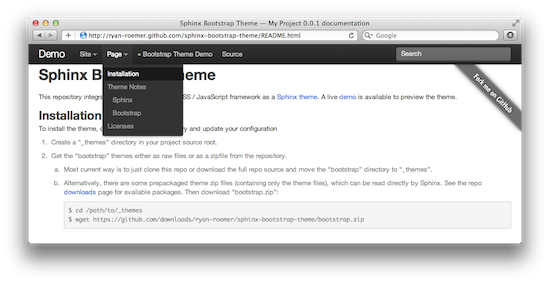
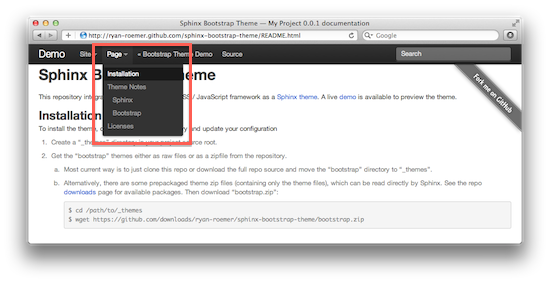
Bootstrap Post: Get brief tour, final thoughts sections done.

Changed region(s): [[0.1545, 0.1413, 0.3709, 0.5371]]

diff --git a/_posts/2011-12-09-sphinx-twitter-bootstrap-theme.md b/_posts/2011-12-09-sphinx-twitter-bootstrap-theme.md
@@ -83,37 +83,69 @@ customizing and hacking on the theme.
 
 ## Brief Tour
 
-TODO: HERE
+The Bootstrap Sphinx theme basically rolls up the site-wide / page-level
+table of contents, page navigation and search form into the main navigation
+top bar.
 
-* Site nav.
-* Page nav.
-* Search
+### Site Navigation
+
+The first dropdown tab is the "Site" button (expanded and highlighted below).
+Internally this wraps up the ``globaltoc`` template using the ``toctree``
+directive.
 
 [![Site Navigation][img_sbt_nav_site_th]][img_sbt_nav_site]
 [img_sbt_nav_site_th]: {{ img_dir }}/sbt_nav_site_thumb.png
 [img_sbt_nav_site]: {{ img_dir }}/sbt_nav_site.png
 
+For both the site and page navigation dropdowns, the bootstrap theme uses
+JavaScript hackery to unpack the internal list structure and convert it to
+an ordered flat list with hierarchy displayed using extra left padding
+corresponding to levels. The natural levels of table of content displayed
+normally by Sphinx should be preserved in the dropdown menus.
+
+### Page Navigation
+
+The second dropdown tab is the "Page" navigation for table of contents link
+within a single page. This wraps the ``localtoc`` template using the ``toc``
+directive.
+
 [![Page Navigation][img_sbt_nav_page_th]][img_sbt_nav_page]
 [img_sbt_nav_page_th]: {{ img_dir }}/sbt_nav_page_thumb.png
 [img_sbt_nav_page]: {{ img_dir }}/sbt_nav_page.png
+
+### Search
+
+The right "Search" box in the navigation top bar connects to the built-in,
+client-side search that Sphinx provides. Here we search for the term
+"bootstrap":
 
 [![Search Navigation][img_sbt_nav_search_th]][img_sbt_nav_search]
 [img_sbt_nav_search_th]: {{ img_dir }}/sbt_nav_search_thumb.png
 [img_sbt_nav_search]: {{ img_dir }}/sbt_nav_search.png
 
+... which gives us the following page matches.
+
 [![Search Results][img_sbt_search_th]][img_sbt_search]
 [img_sbt_search_th]: {{ img_dir }}/sbt_search_thumb.png
 [img_sbt_search]: {{ img_dir }}/sbt_search.png
 
+### Final Thoughts
 
+The Bootstrap Theme provides an easy means for Twitter Bootstrap integration
+for my current Sphinx sites. But, as I've just put together the theme this
+week, it is probably still rough around the edges. Any
+[issue reports][sbt_issues], [pull requests][sbt_pull], and feedback are most
+welcome.
 
 [bootstrap]: http://twitter.github.com/bootstrap/
-[sphinx]: http://sphinx.pocoo.org/
 [python]: http://python.org/
-[sbt_gh]: https://github.com/ryan-roemer/sphinx-bootstrap-theme
 [sbt_demo]: http://ryan-roemer.github.com/sphinx-bootstrap-theme
 [sbt_downloads]: https://github.com/ryan-roemer/sphinx-bootstrap-theme/downloads
+[sbt_gh]: https://github.com/ryan-roemer/sphinx-bootstrap-theme
+[sbt_issues]: https://github.com/ryan-roemer/sphinx-bootstrap-theme/issues
+[sbt_pull]: https://github.com/ryan-roemer/sphinx-bootstrap-theme/pulls
 [sbt_readme]: https://github.com/ryan-roemer/sphinx-bootstrap-theme/blob/master/README.rst
 [sbt_zip]: https://github.com/downloads/ryan-roemer/sphinx-bootstrap-theme/bootstrap.zip
+[sphinx]: http://sphinx.pocoo.org/
 
 <!-- more end -->
